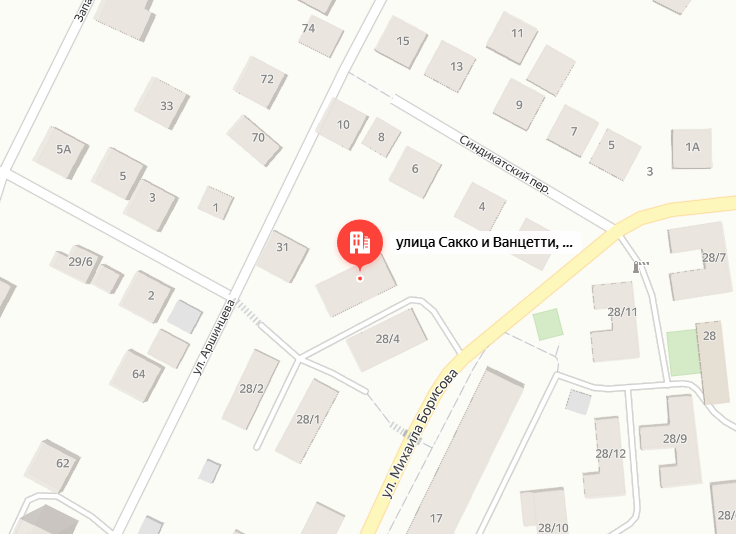
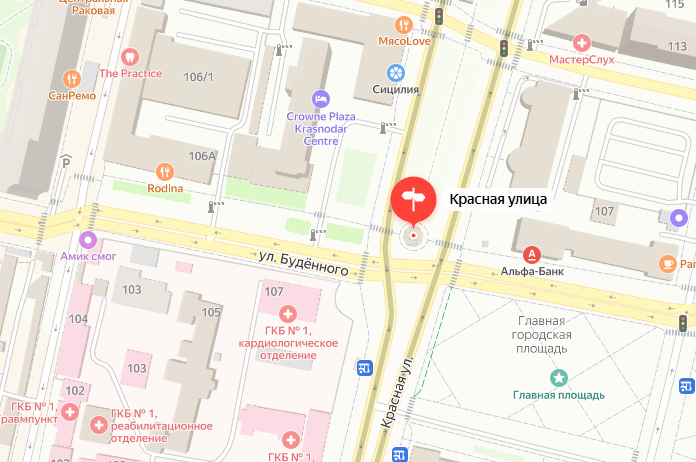
новый мап новый адрес

diff --git a/shared/shop.сonfig.js b/shared/shop.сonfig.js
@@ -28,8 +28,8 @@ export const shopSocialContacts = {
 }
 
 export const shopLocation ={
-    addres: 'улица Сакко и Ванцетти, 28/3, Новороссийск, Краснодарский край, 353901',
-    maplink: 'https://yandex.ru/maps/970/novorossiysk/house/ulitsa_sakko_i_vantsetti_28_3/Z04YcQ9iTUIBQFpufXt1dXxqYA==/?ll=37.783018%2C44.744025&z=18.46'
+    addres: 'Красная улица',
+    maplink: 'https://yandex.ru/maps/35/krasnodar/?ll=38.974406%2C45.035835&mode=whatshere&whatshere%5Bpoint%5D=38.974471%2C45.036133&whatshere%5Bzoom%5D=17.83&z=17.63'
     //изображение карты менят в public/ не изменяя имени
 }
 
